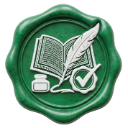
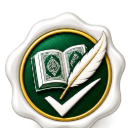
Hadith Checker [English & Arabic] v1.0.0 final
- Fix Page/Number bilingual layout: was a single combined row that could
  land the Arabic label on the English side; now a proper left=English/
  right=Arabic cell pair like every other metadata field.
- Fix a CSS specificity bug where .translation-text silently overrode
  .hadith-en-text's font-size (the primary hadith translation had been
  rendering smaller than intended since the bilingual redesign).
- Remove the visible "AI TRANSLATION" badge (translation itself, caching,
  and the AI-disclosure tooltip are unchanged).
- +1px content typography across Arabic/English hadith, metadata values,
  Takhrij, and modal/شرح/أصول text; labels/badges/buttons/serial kept
  proportional.
- Enlarge the RESULT #N heading so it's visibly more prominent than body
  text.
- Regenerate icons/icon{16,32,48,128}.png from the finalized standalone
  transparent master logo.
- Update product name to "Hadith Checker [English & Arabic] - Chrome
  Extension" in the results header and README.
- Rewrite README.md as minimal, user-facing public documentation.
- Add LICENSE (MIT).

No changes to Dorar retrieval, translation/cache/RPM/session logic, the
context-menu feature, or the action-button colour scheme.

🤖 Generated with Claude Code

diff --git a/src/results/app.js b/src/results/app.js
@@ -373,14 +373,13 @@ function renderCard(result, index) {
   }
 
   if (result.pageOrNumber) {
-    // Language-neutral (a page/citation number) — no English translation to
-    // pair it with, so it stays a single full-width row.
-    card.appendChild(
-      placeInRow(
-        renderSimpleFullRow(DORAR_FIELD_LABELS.numberOrPage, 'Page/Number', result.pageOrNumber),
-        rowCounter,
-      ),
-    );
+    // Language-neutral (a page/citation number — same value both sides, no
+    // translation needed) but still a proper bilingual PAIR of cells, same
+    // as every other metadata row: English cell in the LEFT column, Arabic
+    // cell in the RIGHT column. (FIX: this used to be a single combined
+    // full-width row with both labels concatenated together, which could
+    // visually land the Arabic label on the English/left side.)
+    appendPageNumberRow(card, result.pageOrNumber, rowCounter);
   }
 
   const gradingField = PROSE_FIELDS.find((f) => f.key === 'grading');
@@ -445,23 +444,22 @@ function appendPrimarySection(card, result, slots, rowCounter) {
   const enCell = document.createElement('div');
   enCell.className = 'bi-cell bi-cell-en hadith-cell';
   enCell.dir = 'ltr';
-  const tag = document.createElement('span');
-  tag.className = 'bi-cell-tag';
-  tag.textContent = 'AI TRANSLATION';
-  tag.title = 'AI-generated translation — not Dorar’s own English wording.';
   const englishBlock = document.createElement('div');
   englishBlock.className = 'translation-text hadith-en-text is-loading';
   englishBlock.dir = 'ltr';
   englishBlock.lang = 'en';
+  englishBlock.title = 'AI-generated translation — not Dorar’s own English wording.';
   englishBlock.textContent = 'Translating…';
   slots.hadith = englishBlock;
-  enCell.append(tag, englishBlock);
+  enCell.append(englishBlock);
 
   placePairInRow(arCell, enCell, rowCounter);
   card.append(arCell, enCell);
 }
 
-/** One full-width, language-neutral row (currently just Page/Number). */
+/** One full-width, language-neutral row — used only by the modal recap's
+ * grading fallback (see renderModalRecap), which sits in a plain flex
+ * container, not the main card's bilingual grid. */
 function renderSimpleFullRow(arLabel, enLabel, value) {
   const row = document.createElement('div');
   row.className = 'field-row field-row-full';
@@ -477,6 +475,43 @@ function renderSimpleFullRow(arLabel, enLabel, value) {
 
   row.append(labelEl, valueEl);
   return row;
+}
+
+/**
+ * Page/Number: language-neutral (a citation number, e.g. "3/348") so the
+ * SAME value appears on both sides — but still rendered as a proper
+ * left=English/right=Arabic cell PAIR like every other metadata row, not a
+ * single combined row. That combined-row shape was the bug: with both
+ * labels concatenated into one LTR text run, the Arabic label could end up
+ * visually appearing on the English/left side instead of its own column.
+ */
+function appendPageNumberRow(card, value, rowCounter) {
+  const arCell = document.createElement('div');
+  arCell.className = 'bi-cell bi-cell-ar field-cell';
+  arCell.dir = 'rtl';
+  const arLabel = document.createElement('span');
+  arLabel.className = 'field-row-label';
+  arLabel.textContent = `${DORAR_FIELD_LABELS.numberOrPage}: `;
+  const arValue = document.createElement('span');
+  arValue.className = 'field-row-value';
+  arValue.dir = 'auto';
+  arValue.textContent = value;
+  arCell.append(arLabel, arValue);
+
+  const enCell = document.createElement('div');
+  enCell.className = 'bi-cell bi-cell-en field-cell';
+  enCell.dir = 'ltr';
+  const enLabel = document.createElement('span');
+  enLabel.className = 'field-row-label';
+  enLabel.textContent = 'Page/Number: ';
+  const enValue = document.createElement('span');
+  enValue.className = 'field-row-value';
+  enValue.dir = 'auto';
+  enValue.textContent = value;
+  enCell.append(enLabel, enValue);
+
+  placePairInRow(arCell, enCell, rowCounter);
+  card.append(arCell, enCell);
 }
 
 /**

diff --git a/src/results/styles.css b/src/results/styles.css
@@ -229,7 +229,6 @@ main {
 
 .hadith-card > .result-serial,
 .hadith-card > .takhrij-block,
-.hadith-card > .field-row-full,
 .hadith-card > .action-bar {
   grid-column: 1 / -1;
 }
@@ -253,14 +252,14 @@ main {
 
 .result-serial {
   align-self: flex-start;
-  font-size: 11px;
+  font-size: 17px;
   font-weight: 700;
-  letter-spacing: 0.05em;
+  letter-spacing: 0.03em;
   text-transform: uppercase;
   color: var(--primary);
   background: var(--primary-light);
   border-radius: var(--radius-sm);
-  padding: 3px 10px;
+  padding: 5px 14px;
 }
 
 /* --- The hadith itself: the card's visual centerpiece. Arabic (right,
@@ -275,7 +274,7 @@ main {
 
 .arabic-block {
   font-family: 'Traditional Arabic', 'Segoe UI', Tahoma, sans-serif;
-  font-size: 22px;
+  font-size: 23px;
   font-weight: 500;
   line-height: 2.1;
   color: var(--text);
@@ -292,25 +291,22 @@ main {
   word-break: normal;
 }
 
-.bi-cell-tag {
-  align-self: flex-start;
-  flex-shrink: 0;
-  font-size: 10px;
-  font-weight: 700;
-  letter-spacing: 0.05em;
-  color: var(--primary);
-  background: var(--primary-light);
-  border-radius: var(--radius-sm);
-  padding: 2px 8px;
-  cursor: help;
-}
-
 .hadith-en-text {
-  font-size: 20px;
   font-weight: 500;
   line-height: 1.75;
   color: var(--text);
   white-space: normal;
+}
+
+/* Specificity fix: .hadith-en-text and .translation-text (below) are both
+   single-class selectors with equal specificity, and .translation-text
+   comes later in source order — so its font-size was silently winning the
+   cascade here regardless of what this rule said, ever since the bilingual
+   redesign (confirmed live: computed font-size was 16px, not the intended
+   larger size). Pairing both classes in the selector raises specificity
+   enough to reliably win, independent of source order. */
+.translation-text.hadith-en-text {
+  font-size: 21px;
 }
 
 .hadith-en-text.is-loading,
@@ -341,7 +337,7 @@ main {
 }
 
 .translation-text {
-  font-size: 15px;
+  font-size: 16px;
   line-height: 1.65;
   color: var(--text-secondary);
 }
@@ -377,12 +373,12 @@ main {
    aligned via the card's own grid (see .bi-cell-en/.bi-cell-ar above). --- */
 
 .field-cell {
-  font-size: 14.5px;
+  font-size: 15.5px;
   line-height: 1.8;
 }
 
 .field-row-full {
-  font-size: 14.5px;
+  font-size: 15.5px;
   line-height: 1.8;
   padding-top: 2px;
 }
@@ -397,7 +393,7 @@ main {
 
 .field-row-value {
   color: var(--text-secondary);
-  font-size: 15.5px;
+  font-size: 16.5px;
 }
 
 .field-cell .field-row-value {
@@ -439,12 +435,12 @@ main {
 }
 
 .takhrij-row {
-  font-size: 14.5px;
+  font-size: 15.5px;
   line-height: 1.8;
 }
 
 .takhrij-row-en .translation-text {
-  font-size: 15px;
+  font-size: 16px;
 }
 
 /* -------------------------------------------------------------------------
@@ -561,7 +557,7 @@ main {
 }
 
 .modal-recap-arabic {
-  font-size: 18px;
+  font-size: 19px;
   white-space: normal;
 }
 
@@ -583,7 +579,7 @@ main {
 }
 
 .modal-recap-english {
-  font-size: 16px;
+  font-size: 17px;
   line-height: 1.7;
 }
 
@@ -593,7 +589,7 @@ main {
   flex-wrap: wrap;
   justify-content: space-between;
   gap: 12px 24px;
-  font-size: 13.5px;
+  font-size: 14.5px;
   color: var(--text-secondary);
   padding-top: 4px;
   border-top: 1px solid var(--border);
@@ -657,7 +653,7 @@ main {
 
 .secondary-prose-arabic {
   font-family: 'Traditional Arabic', 'Segoe UI', Tahoma, sans-serif;
-  font-size: 17px;
+  font-size: 18px;
   line-height: 1.9;
   color: var(--text);
   background: var(--accent-light);
@@ -718,11 +714,11 @@ main {
   }
 
   .arabic-block {
-    font-size: 19px;
+    font-size: 20px;
   }
 
-  .hadith-en-text {
-    font-size: 16px;
+  .translation-text.hadith-en-text {
+    font-size: 17px;
   }
 
   .action-btn {

diff --git a/src/results/index.html b/src/results/index.html
@@ -8,7 +8,7 @@
 <body>
   <header>
     <div class="header-inner">
-      <h1>Hadith Checker</h1>
+      <h1>Hadith Checker [English &amp; Arabic] - Chrome Extension</h1>
       <form id="search-form" class="search-pill">
         <button id="search-button" type="submit" aria-label="Search">
           <span aria-hidden="true">&#128269;</span>

diff --git a/README.md b/README.md
@@ -1,83 +1,31 @@
-# Hadith Checker [English & Arabic]
+# Hadith Checker [English & Arabic] - Chrome Extension
 
-A Chrome extension for searching and checking Hadith from
-[Dorar.net](https://dorar.net) in Arabic and English — with AI-generated
-translations, grading, sources, and commentary, side by side.
-
-This is a browser extension, distinct from the separate
-[`dorar-hadith-mcp`](https://github.com/ibnsaleem29/dorar-hadith-mcp) project
-(a Claude Desktop MCP connector). The two are independent products.
+Search and check Hadith from [Dorar.net](https://dorar.net) and view the
+results in Arabic and English side by side.
 
 ## Features
 
-- **Search Dorar.net** by pasting Arabic, English, or part of a Hadith.
-- **Bilingual parallel layout** — English on the left, Arabic on the right,
-  with corresponding fields aligned row by row.
-- **Automatic translation** of the first five results as soon as a search
-  loads; later results translate lazily as you scroll to them.
-- **Hadith grading, source, narrator, and Takhrij** (further references)
-  shown for every result, in both languages.
-- **شرح الحديث (commentary)** and **أصول الحديث (Hadith principles/sources)**
-  open inline, translated lazily and progressively as you read — never sent
-  to the translation service all at once.
-- **Session translation cache** — a completed translation is never
-  re-requested while you stay on the same search, even if you close and
-  reopen commentary/sources, or scroll away and back. A new search always
-  starts a fresh session.
-- **"Check in Hadith Checker"** — right-click any selected Arabic or English
-  text on any webpage to open it as a new Hadith Checker search in its own
-  tab, without leaving the page you're reading.
-- **Multiple independent tabs** — open as many Hadith Checker tabs as you
-  like; each keeps its own search and its own translation state.
+- Search Dorar.net by pasting Arabic, English, or part of a Hadith
+- Bilingual results — English and Arabic shown side by side
+- Automatic translation, with grading, source, and narrator information
+- شرح الحديث (commentary) and أصول الحديث (Hadith principles) available inline
+- Right-click any selected text on a webpage → **Check in Hadith Checker**
+- Open multiple independent searches in separate tabs
 
-## How it works
+## Usage
 
-1. The extension sends your search to Dorar.net's own site search and
-   retrieves the matching Hadith results.
-2. Dorar's Arabic content — the hadith text, grading, narrator, source, and
-   commentary — is displayed exactly as published, unmodified.
-3. English text is produced by sending the Arabic to Google's Gemini model
-   (via a small relay service the extension talks to) and is clearly an
-   **AI-generated translation**, not part of Dorar's own published content.
-   It should be read as an aid to understanding, not a substitute for the
-   Arabic original.
+1. Install the extension.
+2. Click the toolbar icon and enter a search, or right-click text you've
+   selected on any webpage and choose **Check in Hadith Checker**.
+3. Results open in a new tab, in Arabic and English.
 
-## Installation (development / unpacked)
-
-1. Clone or download this repository.
-2. Open `chrome://extensions` in Chrome.
-3. Enable **Developer mode** (top right).
-4. Click **Load unpacked** and select this repository's root folder (the one
-   containing `manifest.json`).
-5. Click the extension's toolbar icon to open the search launcher, or
-   right-click any selected text on a webpage and choose **Check in Hadith
-   Checker**.
-
-## Chrome Web Store
-
-This extension is intended for eventual publication on the Chrome Web Store.
-See the repository's releases for packaged builds.
-
-## Project structure
-
-```
-manifest.json        Extension manifest (Manifest V3)
-icons/                Toolbar/store icon assets
-src/background/       Service worker — Dorar retrieval, translation queue
-src/offscreen/        Offscreen document (HTML parsing; service workers have no DOM)
-src/results/          The full-page results interface
-src/sidepanel/        Minimal search launcher (opens results in a new tab)
-src/shared/           Small utilities shared across contexts
-worker/                A separate Cloudflare Worker — the only component that
-                        talks to the Gemini API. Deployed independently; see
-                        worker/README.md.
-```
+English text is an AI-generated translation of Dorar's Arabic content, shown
+as an aid to understanding — not a substitute for the Arabic original.
 
 ## Privacy
 
-See [PRIVACY.md](./PRIVACY.md) for what the extension sends, stores, and does
-not collect.
+See [PRIVACY.md](./PRIVACY.md).
 
 ## License
 
-TBD.
+MIT License
